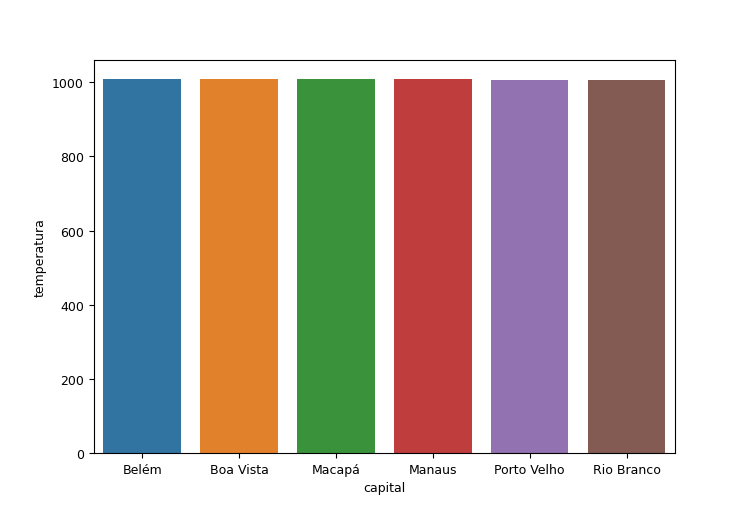
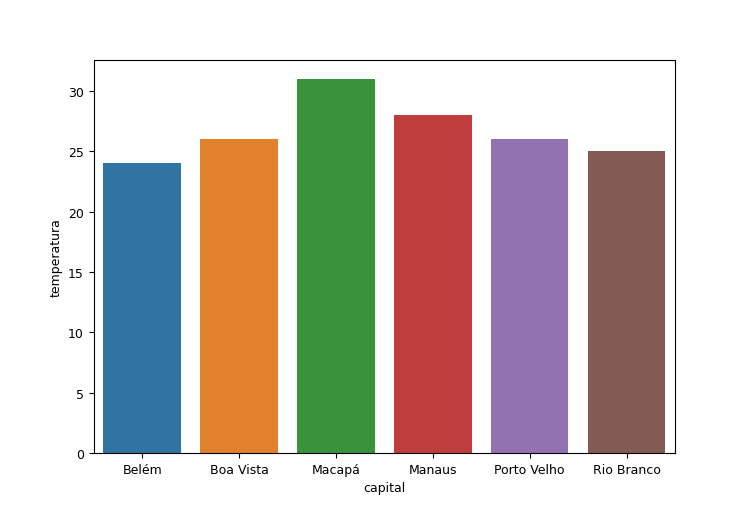
atualização dos gráficos

diff --git a/comandos_BD.py b/comandos_BD.py
@@ -115,11 +115,6 @@ def insertValores():
 
 #ADICIONAR OS GRAFICOS
 def query_cria_grafico():
-    compara =  function_compara()
-
-    #ESSE IF VAI IMPERDIR QUE OS MESMOS GRAFICOS SE REPITAM
-    # if compara == True:
-    # ESTRUTURA DE REPETIÇÃO QUE VAI GERAR OS GRAFICOS
     lista_graficos = ['Nordeste' , 'Norte', 'Centro-Oeste', 'Sul', 'Sudeste']
 
     for repet in lista_graficos:
@@ -147,25 +142,29 @@ def query_cria_grafico():
         colunas = pd.DataFrame(dic, columns=['capital', 'pressao'])
         plot = sns.barplot(data=colunas, x='capital', y='pressao')
         plot.get_figure().savefig(f"static/graficos/grafico_{repet}_pressao.png")
+        plt.close()
     # elif tygrafico == 'temperatura': 
         colunas = pd.DataFrame(dic, columns=['capital', 'temperatura'])
         plot = sns.barplot(data=colunas, x='capital', y='temperatura')
         plot.get_figure().savefig(f"static/graficos/grafico_{repet}_temperatura.png")
+        plt.close()
     # elif tygrafico == 'umidade': 
         colunas = pd.DataFrame(dic, columns=['capital', 'umidade'])
         plot = sns.barplot(data=colunas, x='capital', y='umidade')
         plot.get_figure().savefig(f"static/graficos/grafico_{repet}_umidade.png")
+        plt.close()
     # elif tygrafico == 'vento_dir': 
         colunas = pd.DataFrame(dic, columns=['capital', 'vento_dir'])
         plot = sns.barplot(data=colunas, x='capital', y='vento_dir')
         plot.get_figure().savefig(f"static/graficos/grafico_{repet}_vento_dir.png")
+        plt.close()
     # elif tygrafico == 'vento_int': 
         colunas = pd.DataFrame(dic, columns=['capital', 'vento_int'])
         plot = sns.barplot(data=colunas, x='capital', y='vento_int')
         plot.get_figure().savefig(f"static/graficos/grafico_{repet}_vento_int.png")
+        plt.close()
 
         # plot.get_figure().savefig(f"static/graficos/grafico_{repet}_{tygrafico}.png")
-        plt.close()
     
         # esse metodo vai selecionar a imagem e vai exclui-la da pasta
         # imagem = Image.open(os.path.join(f"static/graficos/grafico_{repet}_{tygrafico}.png")) # vai selecionar a imagem
@@ -179,11 +178,6 @@ def query_cria_grafico():
         # data_e_hora_atuais = date.today()
         # print(data_e_hora_atuais)
 
-# query_cria_grafico('umidade')
-# query_cria_grafico('pressao')
-# query_cria_grafico('temperatura')
-# query_cria_grafico('vento_dir')
-# query_cria_grafico('vento_int')
 
 # FUNÇÃO QUE ATUALIZA O BANCO DE DADOS E CHAMA AS FUNÇÕES DE GERAR GRAFICOS E ATUALIZAR JSON
 def atualizarValores():
@@ -219,13 +213,6 @@ def function_compara():
 
     if dados[0][2] != dec:
         return True
-    
     return False
 
-
-function_compara()
-# criarTabelas()
-# insertCapitais()
-# insertValores()
-# atualizarValores()
 

diff --git a/app.py b/app.py
@@ -21,8 +21,8 @@ def pag_graficos():
 
 
 if __name__ == "__main__":
-    # app.run()
-    from waitress import serve
-    serve(app, host="0.0.0.0", port=8080)
+    app.run()
+    # from waitress import serve
+    # serve(app, host="0.0.0.0", port=8080)
 
 
